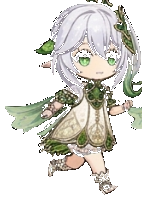
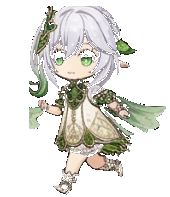
fix(companion): fix running direction, remove twirl/spin, and normalize sprite centering

diff --git a/src/components/athena_widget.rs b/src/components/athena_widget.rs
@@ -78,8 +78,6 @@ const EXCITED_RIGHT: [&str; 2] = [
 // 05 Playful Actions
 const HOP_LEFT: &str = "assets/chibi/05_playful/hop_left_01.png";
 const HOP_RIGHT: &str = "assets/chibi/05_playful/hop_right_01.png";
-const TWIRL_LEFT: &str = "assets/chibi/05_playful/twirl_left_01.png";
-const TWIRL_RIGHT: &str = "assets/chibi/05_playful/twirl_right_01.png";
 
 // ─────────────────────────────────────────────────────────────────────────────
 // CHARACTER STATE MACHINE
@@ -104,7 +102,6 @@ pub enum CharacterState {
     Answering,         // AI excited burst & answering pose
     ChatStandby,       // Idle docked beside open thought bubble
     PlayfulHop,        // Spontaneous joyful hop
-    PlayfulTwirl,      // Spontaneous 360-degree spin
 }
 
 #[component]
@@ -155,8 +152,6 @@ pub fn AthenaWidget() -> impl IntoView {
         let mut anim_accum_ms: f64 = 0.0;
         let mut current_frame_idx: usize = 0;
         let mut was_open = false;
-
-        let mut next_playful_tick: f64 = 8000.0; // Trigger playful events periodically
 
         let perf = web_sys::window().and_then(|w| w.performance());
         let mut last_now = perf.as_ref().map(|p| p.now()).unwrap_or(0.0);
@@ -362,25 +357,6 @@ pub fn AthenaWidget() -> impl IntoView {
                             }
                         }
                     }
-
-                    // Periodic spontaneous playful event (Hop or Twirl)
-                    if state_time >= next_playful_tick {
-                        state_time = 0.0;
-                        next_playful_tick = 12000.0; // Next check in 12s
-                        if (pos_x as usize) % 2 == 0 {
-                            state = CharacterState::PlayfulHop;
-                            anim_accum_ms = 0.0;
-                            set_current_sprite.set(if direction == Direction::Left { HOP_LEFT } else { HOP_RIGHT });
-                            set_bubble_text.set("Hop! ✨");
-                            set_bubble_icon.set("✨");
-                        } else {
-                            state = CharacterState::PlayfulTwirl;
-                            anim_accum_ms = 0.0;
-                            set_current_sprite.set(if direction == Direction::Left { TWIRL_LEFT } else { TWIRL_RIGHT });
-                            set_bubble_text.set("Spin! 🌸");
-                            set_bubble_icon.set("🌸");
-                        }
-                    }
                 }
 
                 // 3. Dropped / Parachute Float (Downwards drift with gentle sine sway)
@@ -460,22 +436,7 @@ pub fn AthenaWidget() -> impl IntoView {
                     }
                 }
 
-                // 7. Playful Twirl (500ms 360-degree rotation)
-                CharacterState::PlayfulTwirl => {
-                    let progress = (state_time / 500.0).min(1.0);
-                    let rot = progress * 360.0;
-                    set_rotation.set(rot);
-                    set_current_sprite.set(if direction == Direction::Left { TWIRL_LEFT } else { TWIRL_RIGHT });
-
-                    if state_time >= 500.0 {
-                        set_rotation.set(0.0);
-                        state = CharacterState::Running;
-                        state_time = 0.0;
-                        anim_accum_ms = 0.0;
-                    }
-                }
-
-                // 8. Thinking (Slow 500ms pose loop)
+                // 7. Thinking (Slow 500ms pose loop)
                 CharacterState::Thinking => {
                     pos_bottom = floor_bottom;
                     set_rotation.set(0.0);
